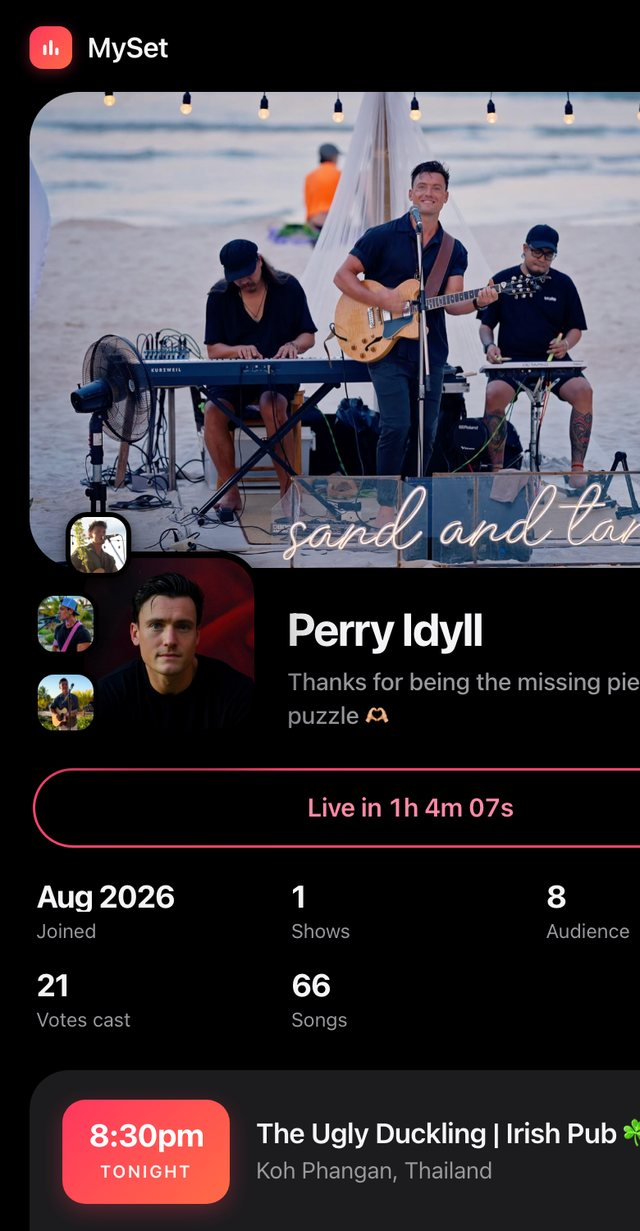
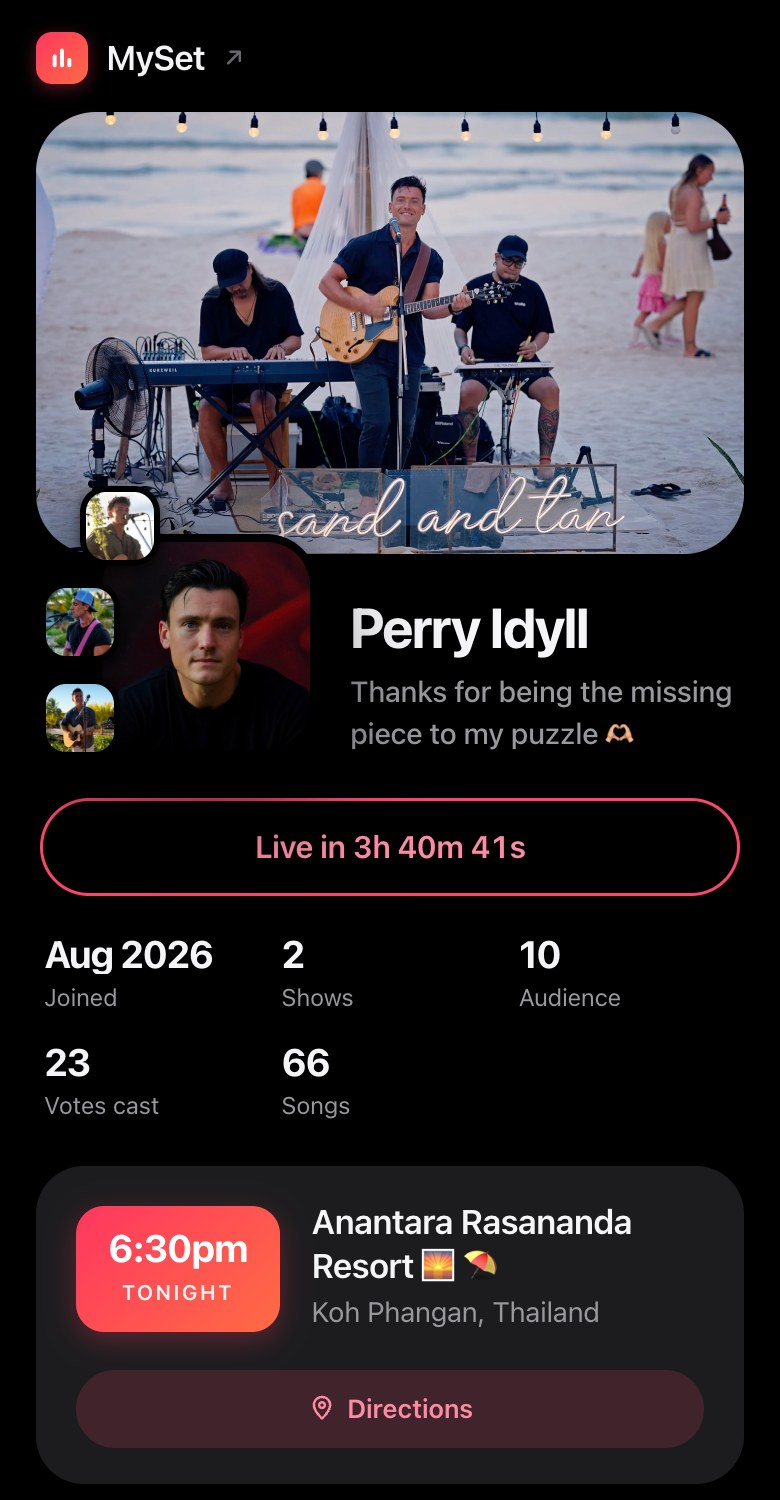
Re-shoot the artist-page screenshot, and say out loud that the artist decides
The demo footer said "<song> is winning, so that's what plays next", which
states the loss-of-control fear the page never answers. It now reads
"— whenever you choose to take the next request". The artist always did
decide; the page just never said so.

profile.jpg was cut off on the right: "sand and tan" clipped mid-word, the
bio truncated at "the missing pie", the Audience stat label sliced, the venue
name and its Directions button cropped. Not a CSS crop — the source capture
was taken wider than 640px and trimmed. Re-shot from the live public page at
390x750 @2x (780x1500), so it fits the frame at its natural ratio with
nothing cut, and the width/height attributes now match.

The re-shoot also moved the numbers: the live page reports 2 shows / 10
audience / 23 votes, where the proof block said one night. There is no record
of a second gig anywhere in the repo, and +2 audience / +2 votes looks like a
test show rather than a room. So rather than guess at a lifetime total, the
proof block is now scoped to what IS documented — "MySet's own first night" —
and its third stat is no longer a running count. The screenshot's current
totals and the prose are now separate claims that cannot contradict each
other, however many nights get played.

diff --git a/public/about.html b/public/about.html
@@ -424,8 +424,8 @@ details .a b{color:var(--ink-2);font-weight:600}
             your gigs land in a public what's-on feed for your town, so people looking for something to
             do tonight find <em>you</em>.</p>
         </div>
-        <div><div class="phone tall"><img src="/about/profile.jpg" width="640" height="1231" loading="lazy"
-          alt="An artist's public MySet page with photos, stats and upcoming shows"></div></div>
+        <div><div class="phone tall"><img src="/about/profile.jpg" width="780" height="1500" loading="lazy"
+          alt="An artist's public MySet page: band photo, bio, a live countdown to the next gig, show and vote counts, and tonight's venue with directions"></div></div>
       </div>
     </div>
   </section>
@@ -473,13 +473,13 @@ details .a b{color:var(--ink-2);font-weight:600}
       <h2>Stop telling venues you draw a crowd.</h2>
       <p class="lede">Every gig you play is counted from the first song. Not "it was packed,
         honestly" — actual numbers, from the actual room, that you didn't type in yourself.</p>
-      <p class="body" style="margin-top:26px;max-width:52ch">Here is the whole of MySet's own track
-        record, and we're not going to dress it up. One night, one pub on Koh Phangan, a room that
-        had no idea any of this existed an hour earlier:</p>
+      <p class="body" style="margin-top:26px;max-width:52ch">Here is MySet's own first night, and
+        we're not going to dress it up. One pub on Koh Phangan, a room that had no idea any of this
+        existed an hour earlier:</p>
       <div class="stat4">
         <div><b data-to="8">8</b><span>people voted</span></div>
         <div><b data-to="21">21</b><span>votes cast</span></div>
-        <div><b data-to="1">1</b><span>night on the books</span></div>
+        <div><b data-to="0">0</b><span>apps anybody had to install</span></div>
         <div><b data-to="100" data-suffix="%">100%</b><span>of it from the room, not from you</span></div>
       </div>
       <p class="body" style="margin-top:32px;max-width:52ch">That's a small number and a true one,
@@ -743,7 +743,7 @@ function draw() {
   foot.innerHTML = left === 0
     ? 'Out of votes — in the room you could buy a few more, or wait: <b>the next song refreshes everyone</b>.'
     : mine.size
-      ? `<b>${esc(sorted[0].t)}</b> is winning, so that's what plays next. Change your mind — tap again to take it back.`
+      ? `<b>${esc(sorted[0].t)}</b> is winning, so that's what plays next — whenever you choose to take the next request. Change your mind: tap again to take it back.`
       : 'Everyone in the room gets a few free votes. <b>Starting a song gives everybody theirs back</b> — so every gap is a fresh contest.';
 }
 document.getElementById('dlist').addEventListener('click', (e) => {
